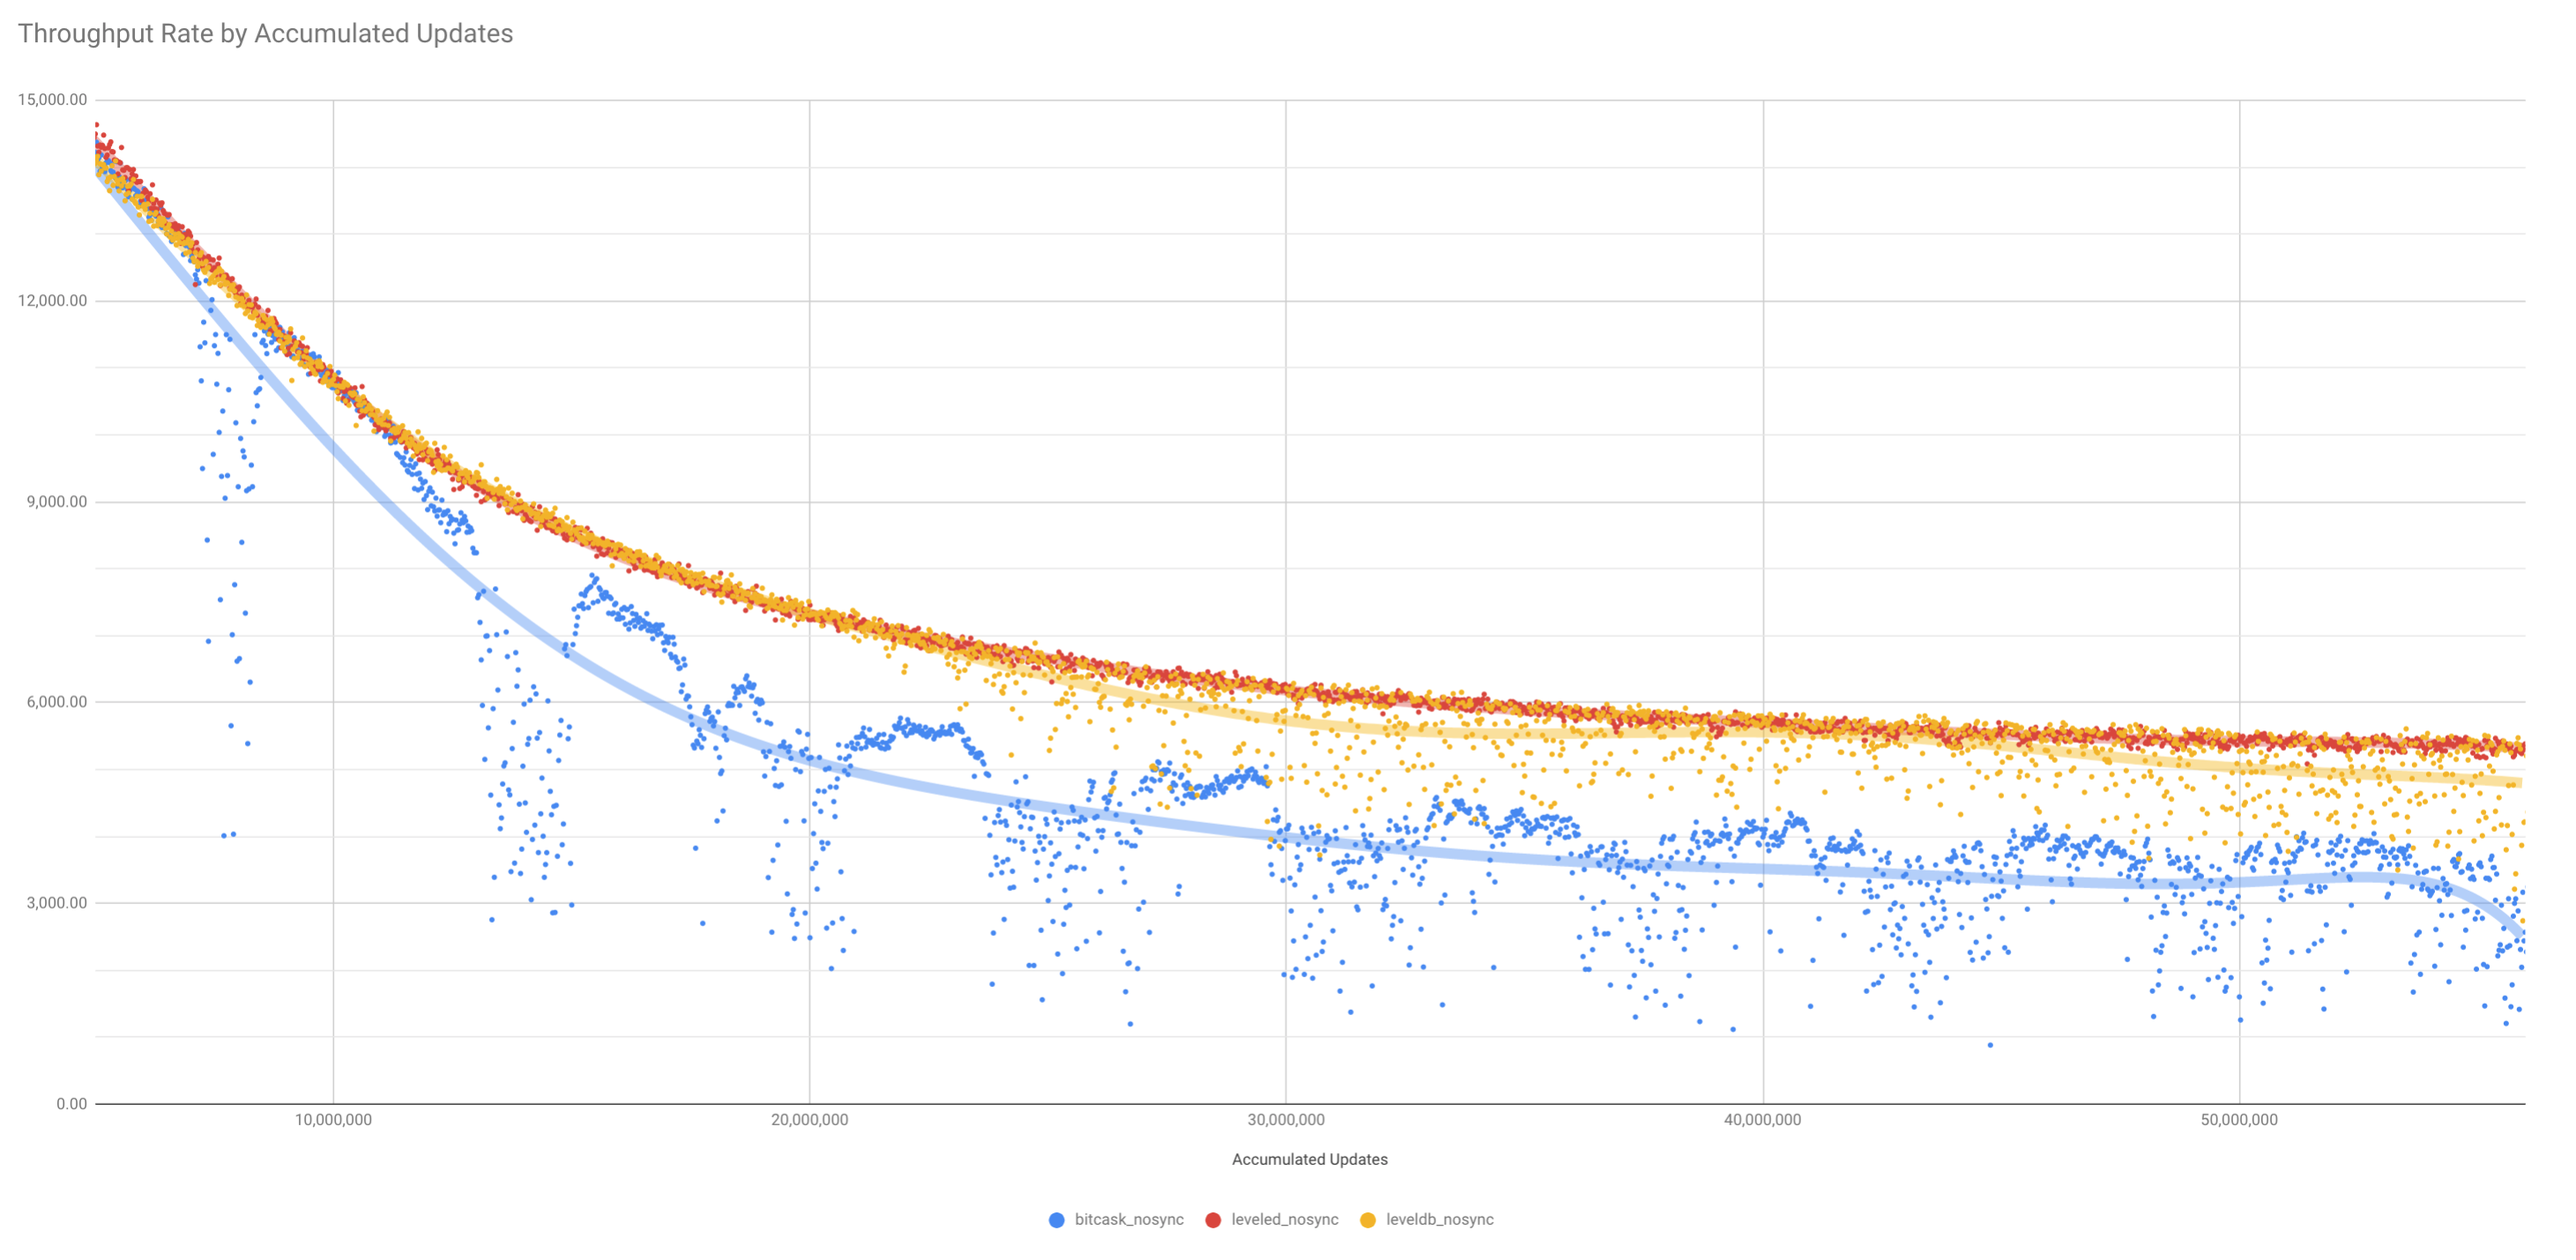
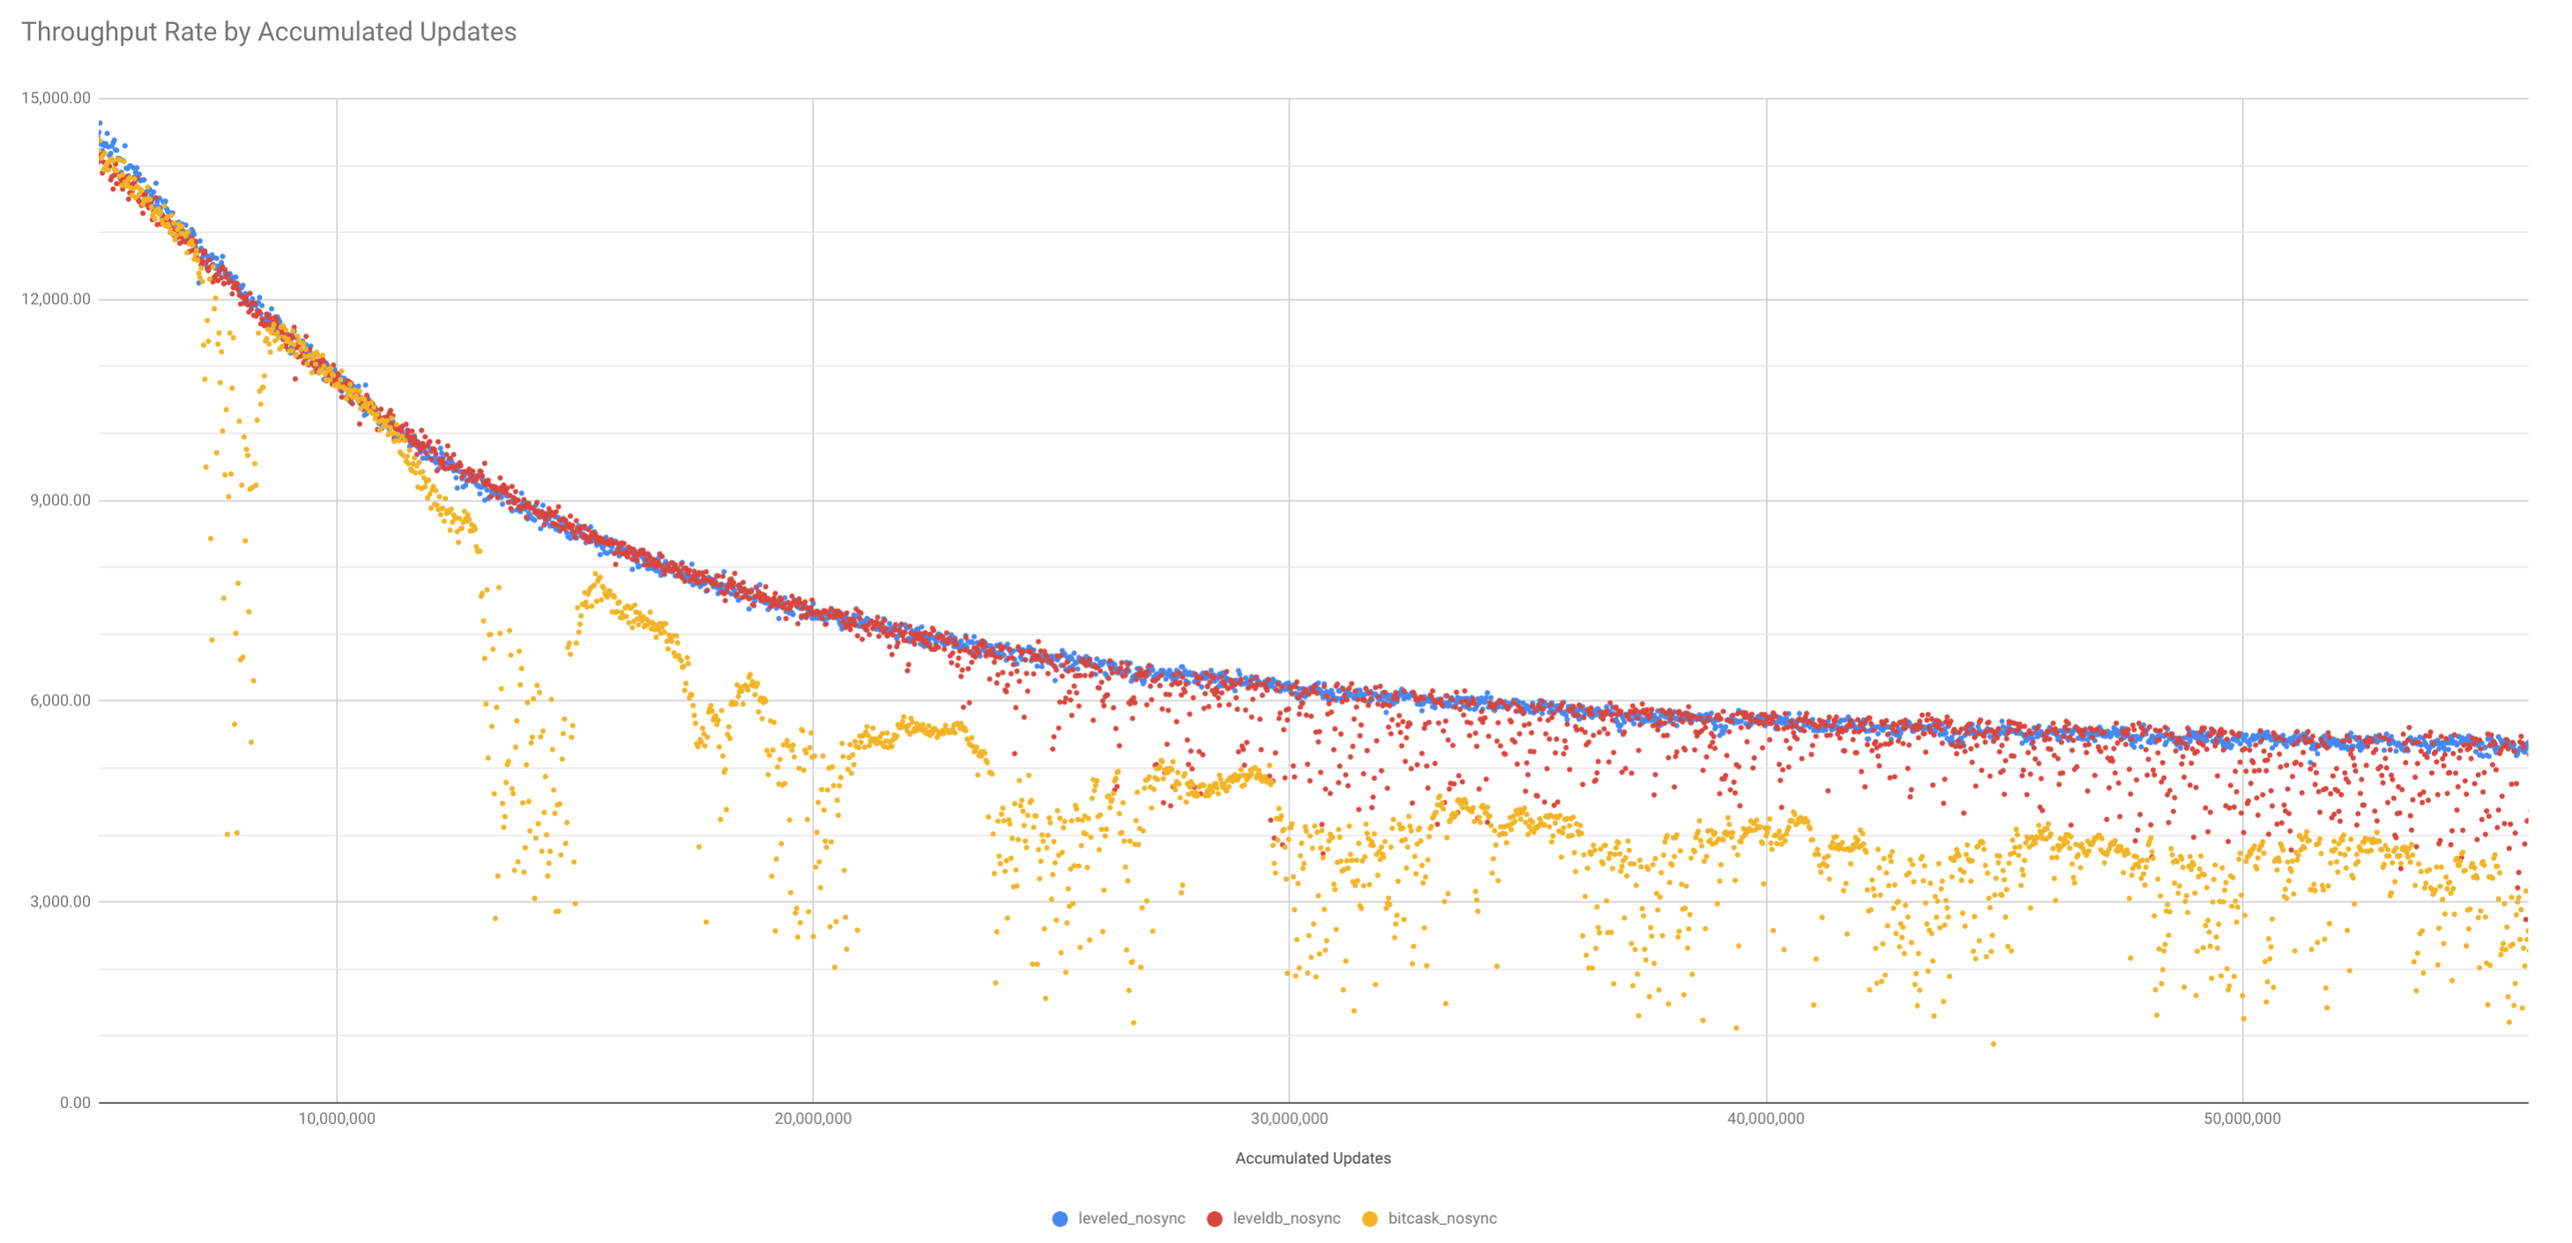
Update charts - fix colours

diff --git a/doc/Release 2.9 - Choosing a Backend.md b/doc/Release 2.9 - Choosing a Backend.md
@@ -170,7 +170,7 @@ The test configuration was as with Test 1, but now with the object size halved b
 ```
 
 
-The comparison of throughput by volume of updates was as follows:
+The comparison of throughput by accumulated volume of updates is:
 
 ![](Throughput_8KB.png)
 
@@ -192,6 +192,37 @@ Some facts related to this comparison:
 
 ### Test 4 - Immutable Objects, Insert Out of Order and No Sync
 
+The test configuration now makes sure that each object is unique, it is only inserted once and never mutated.  The keys generated are in a randomised order, so puts do not occur in sequence.  Objects can no longer be compressed by the backend (they are randomised bytes), and are a consistent 8KB in size.
 
+GET requests for the object always find a key (there are no GETs for objects which have not been inserted), but are not biased towards a portion of the keyspace - so fewer requested values will be in the backend object cache.
+
+For all backends flushing of writes to disk was left in the control of the operating system - there were no explicit flushes.
+
+```
+{mode, max}.
+
+{duration, 1440}.
+{report_interval, 10}.
+
+{concurrent, 100}.
+
+{driver, basho_bench_driver_nhs}.
+
+{unique, {8000, skew_order}}.
+
+{operations, [{get_unique, 3}, {put_unique, 1}]}.
+```
+
+The comparison of throughput by accumulated volume of updates is:
+
+![](Throughput_UniqueSkew.png)
+
+Some facts related to this comparison:
+
+- The workload is specifically suited to bitcask by comparison to leveldb.  Leveled still outperforms leveldb because of the high number of GET requests that come from outside of the backend cache (due to the non-pareto distribution of requests).
+
+- Write amplification due to the unordered nature of the insert causes significant throughput volatility with the leveldb backend.
+
+- At the start of the test, whilst all data is in memory, throughput for both bitcask and leveldb is significantly greater than for leveled.
 
 ### Test 5 - Immutable Objects, Insert In Order and No Sync

diff --git a/doc/Release 2.9 - Test Summary.md b/doc/Release 2.9 - Test Summary.md
@@ -144,4 +144,26 @@ This test is due to a `enoent` failure when switching the configuration file.
 
 ### Test Results - Round 2
 
-Awaiting.
+This round of testing was performed on the public Release Candidate.  The results of the second round of testing are:
+
+Test Suite |  Leveled backend | Bitcask backend | Eleveldb backend
+:-------------------------:|:-------------------------:|:-------------------------:|:-------------------------:
+KV_all | [verify_conditional_postcommit](#verify_conditional_postcommit) |  |
+2i_all |  All pass | n/a |
+mapred_all | All pass |  |
+pipe_all | All pass |  |
+core_all | All pass |  |
+rtc_all |  |  |
+datatypes_all |  |  |
+repl_all |  |  |
+admin_all |  |  |
+yoko | n/a |  |
+ensemble | n/a |  |
+eqc |  |  |
+cluster_upgrade | n/a | |
+bitcask_only | n/a |  | n/a
+eleveldb_only | n/a | n/a |
+
+#### verify_conditional_postcommit
+
+Gets 999 results when expecting 1000.
